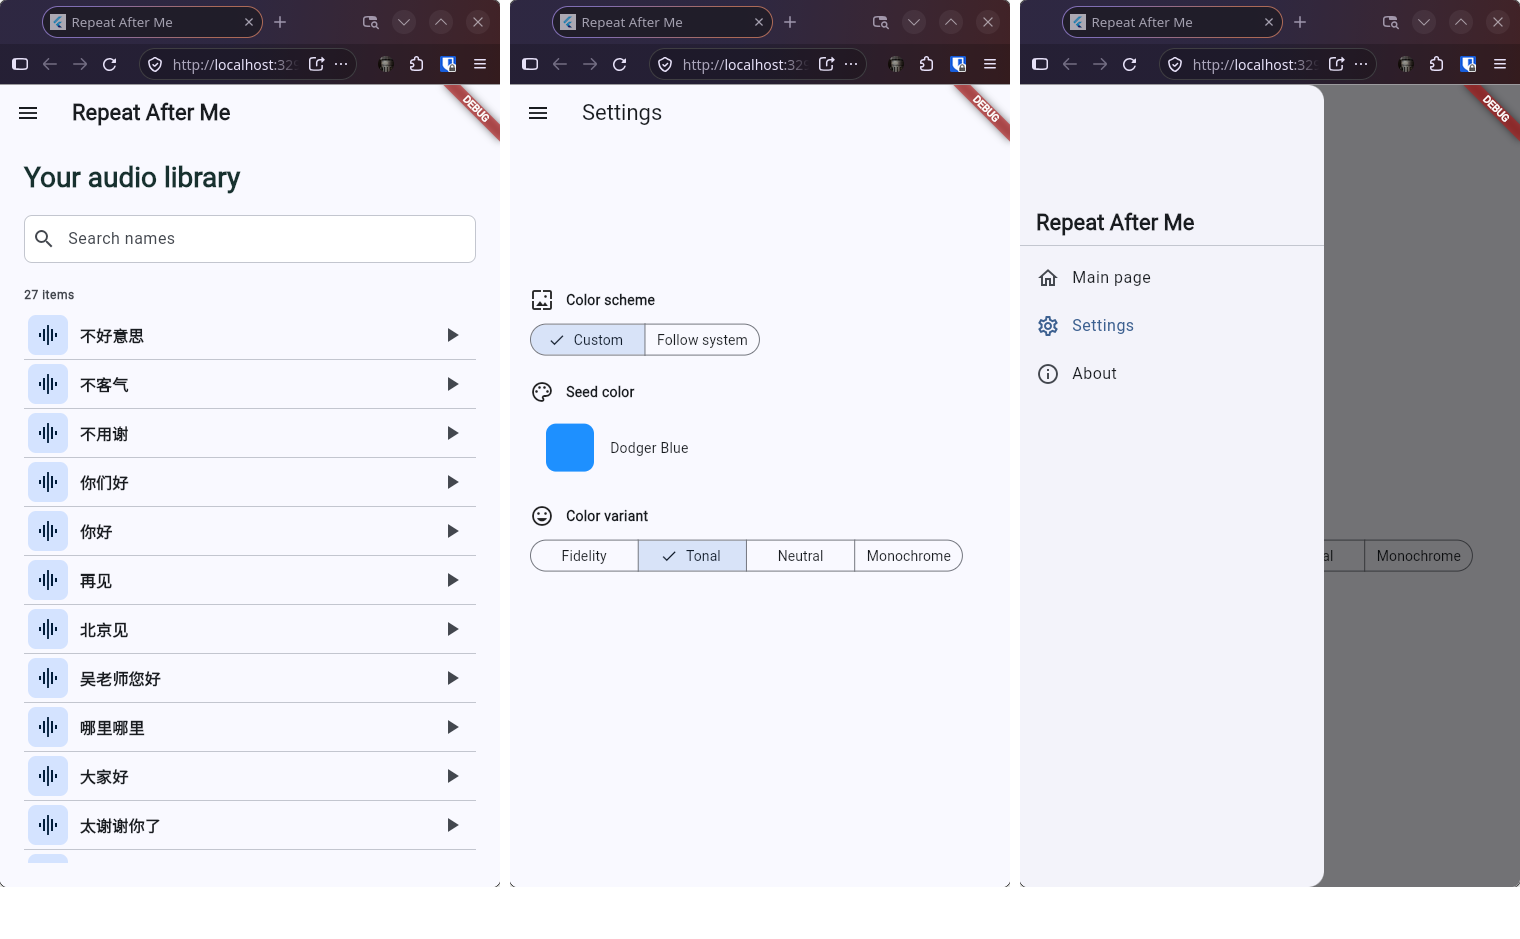
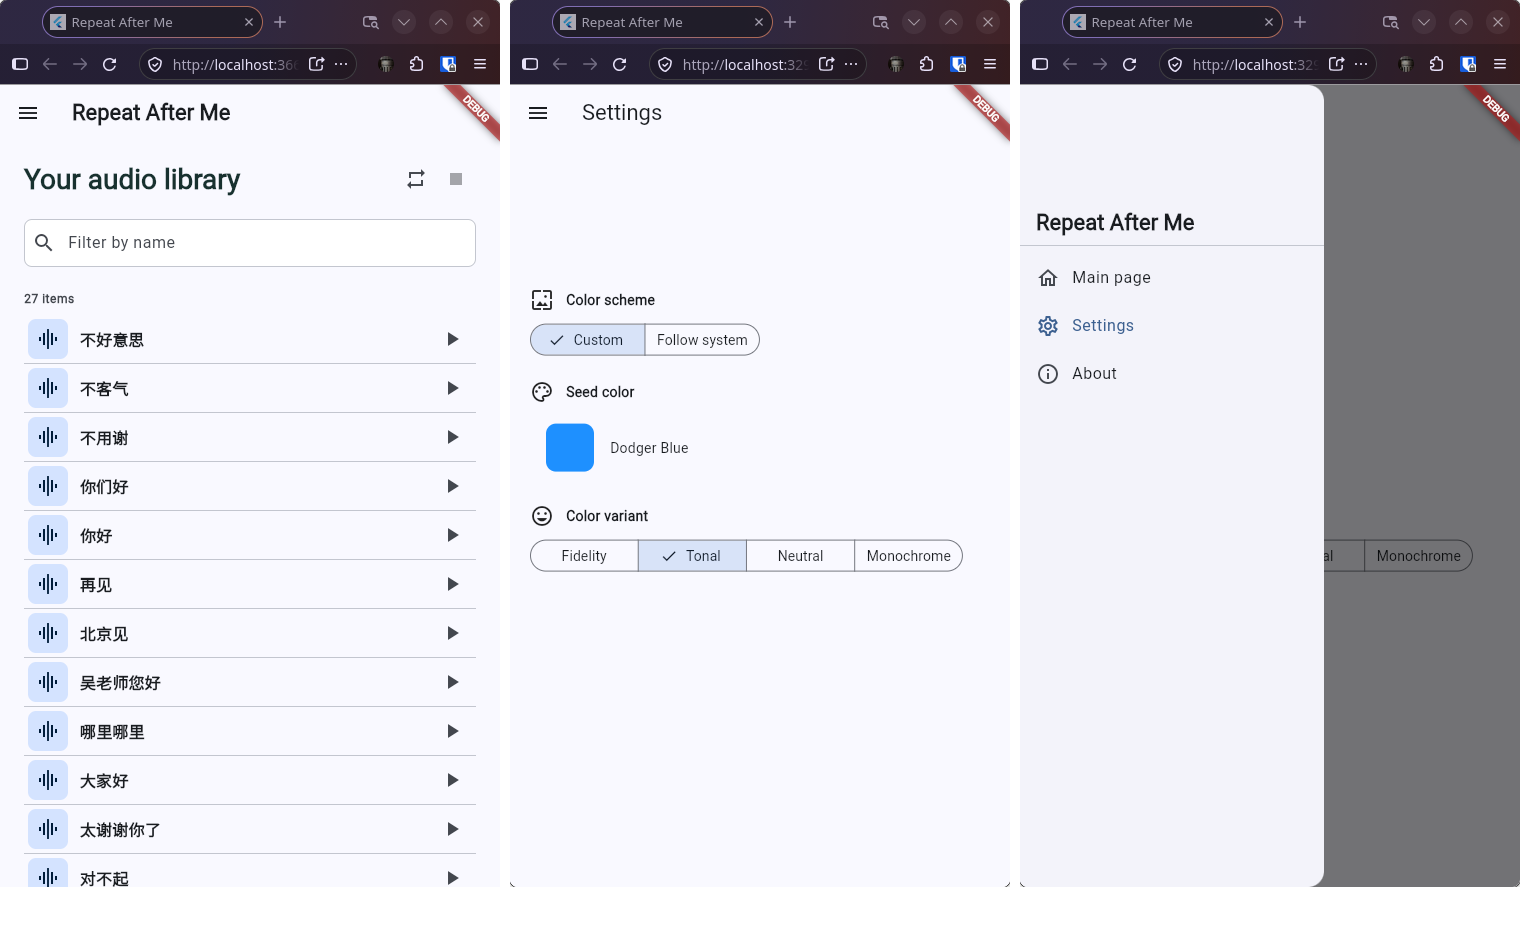
Document continuous playback and bump version to 0.2.0
- Describe continuous playback in README.md and README_ja.md
- Update the version shown on the About screen and in pubspec.yaml

diff --git a/lib/widgets/app_navigation_drawer.dart b/lib/widgets/app_navigation_drawer.dart
@@ -58,7 +58,7 @@ class AppNavigationDrawer extends StatelessWidget {
                 showAboutDialog(
                   context: context,
                   applicationName: l10n.appTitle,
-                  applicationVersion: '0.1.1',
+                  applicationVersion: '0.2.0',
                   applicationLegalese: '© 2026 HORIE Seiichi',
                 );
               },

diff --git a/test/widget_test.dart b/test/widget_test.dart
@@ -121,7 +121,7 @@ void main() {
     await tester.tap(find.text('バージョン情報'));
     await tester.pumpAndSettle();
 
-    expect(find.text('0.1.1'), findsOneWidget);
+    expect(find.text('0.2.0'), findsOneWidget);
     expect(find.text('© 2026 HORIE Seiichi'), findsOneWidget);
   });
 

diff --git a/README.md b/README.md
@@ -7,6 +7,7 @@ An audio phrase library for language study. The app lists the names of `.m4a` fi
 - Lists audio filenames without their `.m4a` extension
 - Filters names incrementally as you type
 - Plays an audio file when its list item is selected; select it again to pause
+- Plays the list continuously with the repeat button next to the title, and stops with the stop button: it starts from the most recently played item (or the first one), plays top to bottom with a 1-second gap after each item, and loops back to the top; item play buttons are disabled meanwhile
 - Uses Japanese when the system language is Japanese, and English otherwise
 - Supports a custom seed color, color scheme variant, or system colors
 - Saves appearance settings on the device and restores them on the next launch

diff --git a/README_ja.md b/README_ja.md
@@ -7,6 +7,7 @@
 - 音声ファイル名から拡張子を除いて一覧表示
 - 名前のインクリメンタル検索
 - リスト項目の選択で音声を再生し、再度選択すると一時停止
+- タイトル横の連続再生ボタンでリストを連続再生し、停止ボタンで停止: 最後に再生した項目（なければ先頭）から上から順に再生し、各項目の終了後に1秒空けて、末尾の次は先頭に戻る。連続再生中は各項目の再生ボタンを無効化
 - システム言語が日本語の場合は日本語、それ以外は英語で表示
 - シードカラー、カラーバリエーション、システム配色の設定
 - 外観設定を端末に保存し、次回起動時に復元
